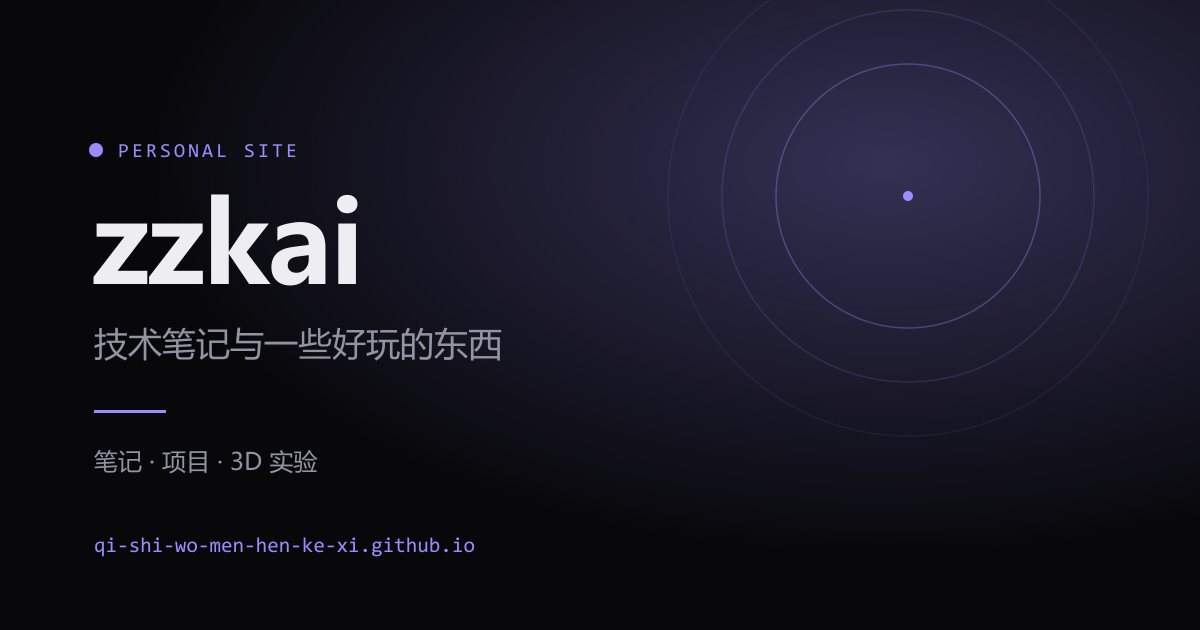
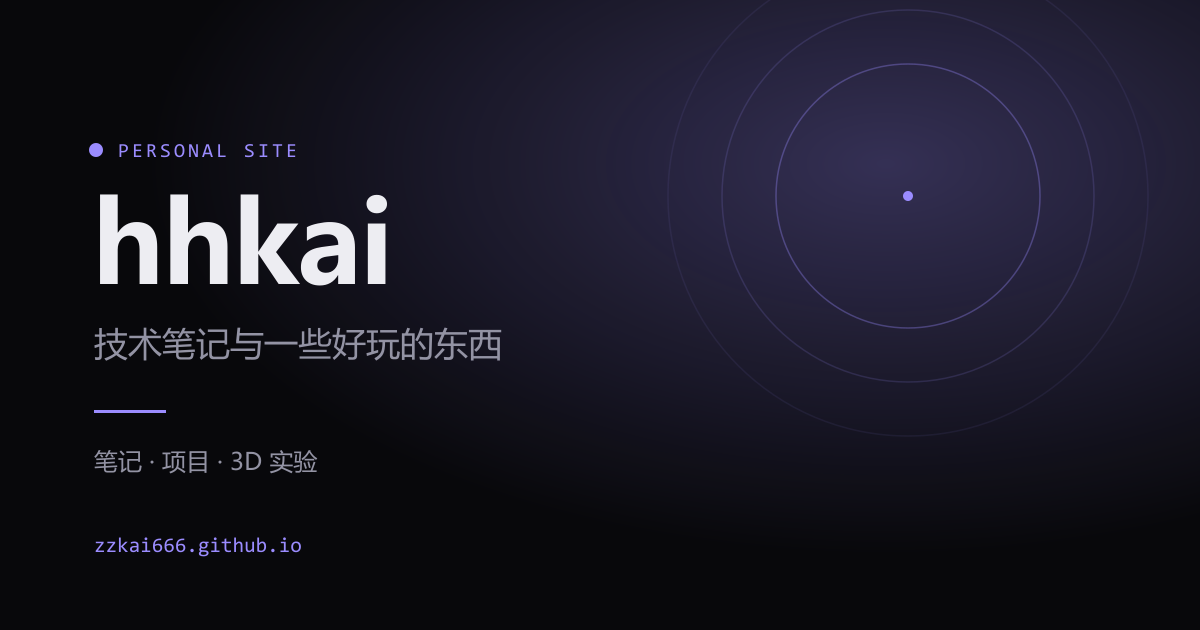
chore: 同步 GitHub 改名与站名（zzkai → hhkai）
GitHub 账号 qi-shi-wo-men-hen-ke-xi 已改名为 Zzkai666，
站点地址随之从 qi-shi-wo-men-hen-ke-xi.github.io 变为 zzkai666.github.io。

- 用户名与地址：consts.ts / astro.config.mjs / deploy.yml / fetch-repos.mjs
- 站名与署名：zzkai → hhkai（含 SEO 描述、OG 分享图、README、package name）
- 仓库名比较统一转小写：GitHub 仓库名大小写不敏感，
  接口返回的大小写不一定与常量一致，否则自身仓库会混进项目列表
- README 补充部署硬性前提：仓库必须命名为 <用户名>.github.io，
  否则会退化成子路径站点，所有 / 开头的内部链接与 public 资源都会 404
- 重新生成 og.png（大标题 hhkai）与 repos.json

Changed region(s): [[0.0617, 0.3016, 0.3392, 0.4524], [0.0617, 0.8444, 0.4008, 0.8746]]

diff --git a/src/consts.ts b/src/consts.ts
@@ -1,23 +1,30 @@
 /**
  * 站点全局常量。
  * 站名 / 作者 / GitHub 用户名集中在这里，改一处全站生效。
+ *
+ * 关于命名：GitHub 账号是 `Zzkai666`（显示名 hhkai），站点品牌是 `hhkai`。
+ * 两者不一致是有意的 —— 账号名不可随意更改，而站名是展示用的。
  */
 
-export const GITHUB_USERNAME = 'qi-shi-wo-men-hen-ke-xi';
+/** GitHub 账号名（用于 API 请求与仓库链接，注意大小写与账号保持一致） */
+export const GITHUB_USERNAME = 'Zzkai666';
 
 export const SITE = {
   /** 站名 */
-  title: 'zzkai',
+  title: 'hhkai',
   /** 首页副标题 */
   tagline: '技术笔记与一些好玩的东西',
   /** SEO 描述 */
-  description: 'zzkai 的个人网站：编程学习笔记、项目展示，以及一些实验性的交互作品。',
+  description: 'hhkai 的个人网站：编程学习笔记、项目展示，以及一些实验性的交互作品。',
   /** 作者署名（文章页与 RSS 使用） */
-  author: 'zzkai',
+  author: 'hhkai',
   /** 默认语言 */
   lang: 'zh-CN',
-  /** 站点根地址，需与 astro.config.mjs 的 site 保持一致 */
-  url: 'https://qi-shi-wo-men-hen-ke-xi.github.io',
+  /**
+   * 站点根地址，需与 astro.config.mjs 的 site 保持一致。
+   * 用原始站点（仓库名为 <用户名>.github.io）时跑在域名根路径，不需要 base 配置。
+   */
+  url: 'https://zzkai666.github.io',
 } as const;
 
 export const GITHUB = {

diff --git a/src/lib/projects.ts b/src/lib/projects.ts
@@ -36,8 +36,11 @@ interface CuratedRecord {
   pinned?: boolean;
 }
 
-/** 博客仓库自身作为站点载体，不在项目列表里重复展示 */
-const SELF_REPO = `${GITHUB_USERNAME}.github.io`;
+/**
+ * 博客仓库自身只作为站点载体，不在项目列表里重复展示。
+ * 转小写比较 —— GitHub 仓库名大小写不敏感，接口返回的大小写不一定与常量一致。
+ */
+const SELF_REPO = `${GITHUB_USERNAME}.github.io`.toLowerCase();
 
 /**
  * 合并两个数据源：
@@ -46,7 +49,7 @@ const SELF_REPO = `${GITHUB_USERNAME}.github.io`;
  */
 export function getProjects(): ProjectItem[] {
   const repos: ProjectItem[] = ((rawRepos as { repos?: RepoRecord[] }).repos ?? [])
-    .filter((repo) => repo.name !== SELF_REPO)
+    .filter((repo) => repo.name.toLowerCase() !== SELF_REPO)
     .map((repo) => ({
       title: repo.name,
       description: repo.description ?? '暂无描述',

diff --git a/README.md b/README.md
@@ -1,4 +1,4 @@
-# zzkai
+# hhkai
 
 个人网站：技术笔记 + 项目展示 + 3D / 动效实验。
 
@@ -79,6 +79,12 @@ npm run fetch-repos      # 本地手动跑；CI 里会自动跑
 - 想手动置顶项目或补充非 GitHub 作品，编辑 `src/data/curated.json`
 
 ## 部署
+
+**前置条件：仓库必须命名为 `<用户名>.github.io`**（当前应为 `Zzkai666.github.io`）。
+
+这是 GitHub 的硬性规则 —— 只有这个名字的仓库算「用户站点」，跑在 `https://<用户名>.github.io` 根路径。
+如果叫别的名字（比如 `hhkaiBlog`），会被当成「项目站点」，推到 `https://<用户名>.github.io/<仓库名>/` 子路径下；
+那时所有以 `/` 开头的内部链接与 `public/` 资源引用都会 404，必须额外配置 `base` 并改写全站链接。
 
 推送到 `main` 分支即自动构建并发布（`.github/workflows/deploy.yml`）。
 
